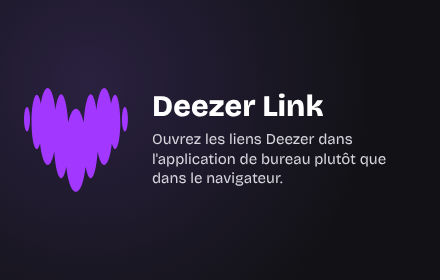
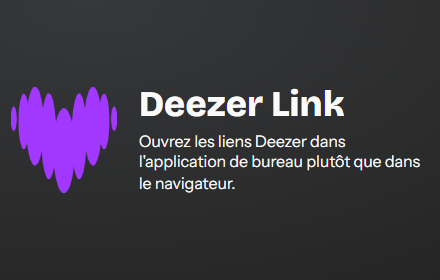
refactor: @dume/ds 0.5.0, and promotional tiles on the design system

diff --git a/scripts/store-assets.ts b/scripts/store-assets.ts
@@ -3,7 +3,8 @@
  * - public/icons/{16,32,48,128}.png, the manifest icons;
  * - store/icon-128x128.png, store/logo-300x300.png, and store/promo-440x280-<locale>.png and store/promo-1400x560-<locale>.png
  *   (promotional tiles) for each locale, named after their type and size, for the store listings: the icon, the name and
- *   the description of the extension (public/_locales/<locale>/messages.json) on a dark background.
+ *   the description of the extension (public/_locales/<locale>/messages.json), with @dume/ds's classes alone, in its dark
+ *   theme and the extension's color. Their size comes from the screenshot's scale, the design system's sizes growing with it.
  * Music Bridge's manifest icons are its logo in the colors of the current version, drawn at random for each release
  * (extensions/music-bridge/scripts/logo.ts); its store images keep the logo's own colors.
  *
@@ -11,9 +12,11 @@
  * CHROMIUM_PATH can point to a Chromium binary other than the one Playwright installs.
  */
 
-import { mkdir, readdir, readFile } from 'node:fs/promises';
+import { mkdir, mkdtemp, readdir, readFile, rm, writeFile } from 'node:fs/promises';
 import { createRequire } from 'node:module';
-import { resolve } from 'node:path';
+import { tmpdir } from 'node:os';
+import { join, resolve } from 'node:path';
+import { pathToFileURL } from 'node:url';
 import { logo } from '../extensions/music-bridge/scripts/logo.ts';
 
 const ROOT = resolve(import.meta.dirname, '..');
@@ -28,40 +31,49 @@ const SOURCES: Record<string, () => Promise<{ icon: string; store: string }>> = 
   'dzr-tab': async () => ({ icon: await deezerHeart(), store: await deezerHeart() }),
   'music-bridge': async () => ({ icon: svgDataUrl(await logo()), store: svgDataUrl(await logo({ original: true })) }),
 };
+/** Each extension's color, as on its pages: the design system's states and gradient come from it */
+const pageColor = async (file: string) => (await readFile(resolve(ROOT, file), 'utf8')).match(/--ds-b-color-primary: (light-dark\([^;]+\));/)![1]!;
+const COLORS: Record<string, () => Promise<string>> = {
+  'dzr-link': () => pageColor('extensions/dzr-link/entrypoints/moving/style.css'),
+  // Deezer Tab's pages do not use the design system: a purple close to its heart, whose contrasts pass its tests
+  'dzr-tab': async () => 'light-dark(#7b1fd6, #c58bff)',
+  'music-bridge': () => pageColor('extensions/music-bridge/entrypoints/options/style.css'),
+};
 const extensions = process.argv.slice(2);
 for (const extension of extensions) if (!SOURCES[extension]) throw new Error(`Usage: pnpm store-assets [${Object.keys(SOURCES).join('|')}…]`);
 const ICON_SIZES = [16, 32, 48, 128];
 // Chrome Web Store image guidelines: the 128 px icon is 96 px of artwork with 16 px of transparent padding
 // per side. The smaller toolbar icons use their whole size.
 const iconPadding = (size: number) => (size === 128 ? 16 : 0);
-// Bricolage Grotesque (SIL Open Font License), the title font of simon.duhem.fr
-const FONT = 'node_modules/@fontsource-variable/bricolage-grotesque/files/bricolage-grotesque-latin-wght-normal.woff2';
+// The design system, a dependency of the extensions that use it. Its fonts are next to its stylesheet: the tiles are files, so that they load
+const DESIGN_SYSTEM = pathToFileURL(createRequire(resolve(ROOT, 'extensions/dzr-link/package.json')).resolve('@dume/ds/styles.css')).href;
+// A tile's window at a scale that makes its image's size, wider by the room the design system keeps for a scrollbar, left out of the image
+const TILES = [
+  { name: 'promo-440x280', width: 660, height: 420, scale: 2 / 3 },
+  { name: 'promo-1400x560', width: 875, height: 350, scale: 1.6 },
+];
+const SCROLLBAR = 15;
 
-const dataUrl = async (file: string, type: string) => `data:${type};base64,${(await readFile(resolve(ROOT, file))).toString('base64')}`;
 const escape = (text: string) => text.replace(/[&<>"]/g, c => `&#${c.charCodeAt(0)};`);
-
-const fontFace = `@font-face { font-family: 'Bricolage Grotesque'; font-weight: 200 800; src: url(${await dataUrl(FONT, 'font/woff2')}); }`;
 
 /** Just the icon, on a transparent background */
 const iconOnly = (icon: string, size: number, padding = 0) =>
   `<style>html, body { margin: 0; } img { display: block; width: ${size - 2 * padding}px; height: ${size - 2 * padding}px; padding: ${padding}px; }</style><img src="${icon}">`;
 
-/** Store tile: the icon, then the name and the description */
-function tile(icon: string, name: string, description: string, { iconSize, nameSize, textSize, gap }: { iconSize: number; nameSize: number; textSize: number; gap: number }) {
-  return `
-    <style>
-      ${fontFace}
-      html, body { margin: 0; height: 100%; }
-      body {
-        display: flex; align-items: center; justify-content: center; gap: ${gap}px; padding: 0 ${gap}px; box-sizing: border-box;
-        background: radial-gradient(circle at 20% 30%, #2a2140, #121216 70%); color: #fff; font-family: 'Bricolage Grotesque', sans-serif;
-      }
-      img { width: ${iconSize}px; height: ${iconSize}px; flex: none; }
-      h1 { margin: 0 0 ${nameSize * 0.25}px; font-size: ${nameSize}px; line-height: 1.05; font-weight: 800; }
-      p { margin: 0; font-size: ${textSize}px; line-height: 1.3; font-weight: 400; color: #d6d4dc; }
-    </style>
-    <img src="${icon}"><div><h1>${escape(name)}</h1><p>${escape(description)}</p></div>`;
-}
+/** Store tile: the icon, then the name and the description. Its font, the design system's printed one: a screenshot should not depend on the fonts of the computer that takes it */
+const tile = (locale: string, color: string, icon: string, name: string, description: string) => `<!doctype html>
+<html lang="${locale}" data-theme="dark">
+<head>
+<meta charset="utf-8">
+<link rel="stylesheet" href="${DESIGN_SYSTEM}">
+<style>:root { --ds-b-color-primary: ${color}; --ds-b-font-family: 'Instrument Sans', system-ui, sans-serif; }</style>
+</head>
+<body class="ds-l-page ds-l-page--centered ds-l-page--tinted">
+<main class="ds-l-page__main">
+<div class="ds-c-hero ds-c-hero--media"><img class="ds-c-hero__media" src="${icon}" alt=""><hgroup><h1>${escape(name)}</h1><p>${escape(description)}</p></hgroup></div>
+</main>
+</body>
+</html>`;
 
 const browser = await chromium.launch({ channel: 'chromium', executablePath: process.env.CHROMIUM_PATH });
 const page = await browser.newPage();
@@ -77,10 +89,28 @@ async function shoot(html: string, width: number, height: number, file: string, 
   console.log(`${file.slice(ROOT.length + 1)} (${width}×${height})`);
 }
 
+/** A tile's image: from a file, for the design system's stylesheet and fonts */
+async function shootTile(html: string, directory: string, { width, height, scale }: (typeof TILES)[number], file: string) {
+  const context = await browser.newContext({ viewport: { width: width + SCROLLBAR, height }, deviceScaleFactor: scale });
+  const tab = await context.newPage();
+  const source = join(directory, 'tile.html');
+  await writeFile(source, html);
+  await tab.goto(pathToFileURL(source).href);
+  await tab.evaluate(async () => {
+    await document.fonts.ready;
+    await Promise.all([...document.images].map(img => img.decode()));
+  });
+  await tab.screenshot({ path: file, clip: { x: 0, y: 0, width, height } });
+  await context.close();
+  console.log(`${file.slice(ROOT.length + 1)} (${Math.round(width * scale)}×${Math.round(height * scale)})`);
+}
+
+const temporary = await mkdtemp(join(tmpdir(), 'store-assets-'));
 try {
   for (const [extension, source] of Object.entries(SOURCES).filter(([name]) => !extensions.length || extensions.includes(name))) {
     const dir = resolve(ROOT, 'extensions', extension);
     const { icon, store } = await source();
+    const color = await COLORS[extension]!();
     await mkdir(resolve(dir, 'public/icons'), { recursive: true });
     await mkdir(resolve(dir, 'store'), { recursive: true });
 
@@ -94,12 +124,10 @@ try {
     for (const locale of await readdir(resolve(dir, 'public/_locales'))) {
       const messages = JSON.parse(await readFile(resolve(dir, `public/_locales/${locale}/messages.json`), 'utf8')) as Record<string, { message: string }>;
       const [name, description] = [messages.name!.message, messages.description!.message];
-      const small = { iconSize: 104, nameSize: 30, textSize: 15, gap: 24 };
-      const marquee = { iconSize: 300, nameSize: 84, textSize: 36, gap: 80 };
-      await shoot(tile(store, name, description, small), 440, 280, resolve(dir, `store/promo-440x280-${locale}.png`));
-      await shoot(tile(store, name, description, marquee), 1400, 560, resolve(dir, `store/promo-1400x560-${locale}.png`));
+      for (const size of TILES) await shootTile(tile(locale, color, store, name, description), temporary, size, resolve(dir, `store/${size.name}-${locale}.png`));
     }
   }
 } finally {
   await browser.close();
+  await rm(temporary, { recursive: true });
 }

diff --git a/README.md b/README.md
@@ -56,7 +56,7 @@ The [CI](.github/workflows/ci.yml) workflow runs on every pull request and on pu
 
 ## Icons and store images
 
-Every extension has the same images, rendered from one source icon by `pnpm store-assets` (in Chromium, with Playwright, in Bricolage Grotesque, the title font of simon.duhem.fr):
+Every extension has the same images, rendered from one source icon by `pnpm store-assets` (in Chromium, with Playwright, the promotional tiles with `@dume/ds` and each extension's color):
 
 - `public/icons/{16,32,48,128}.png`: the manifest icons. The 128 px one, also the store icon, has 96 px of artwork and 16 px of transparent padding, as the Chrome Web Store asks;
 - `store/logo-300x300.png`, and `store/promo-440x280-<locale>.png` and `store/promo-1400x560-<locale>.png` for each locale of `public/_locales`: the store listing images, named after their type and size, with the extension's name and description in that language.

diff --git a/.changeset/ds-reuse.md b/.changeset/ds-reuse.md
@@ -3,4 +3,4 @@
 'dzr-link': patch
 ---
 
-@dume/ds 0.4.0, and no CSS of their own: their pages use the design system's classes and only set their color.
+@dume/ds 0.5.0, and no CSS of their own: their pages use the design system's classes and only set their color.
